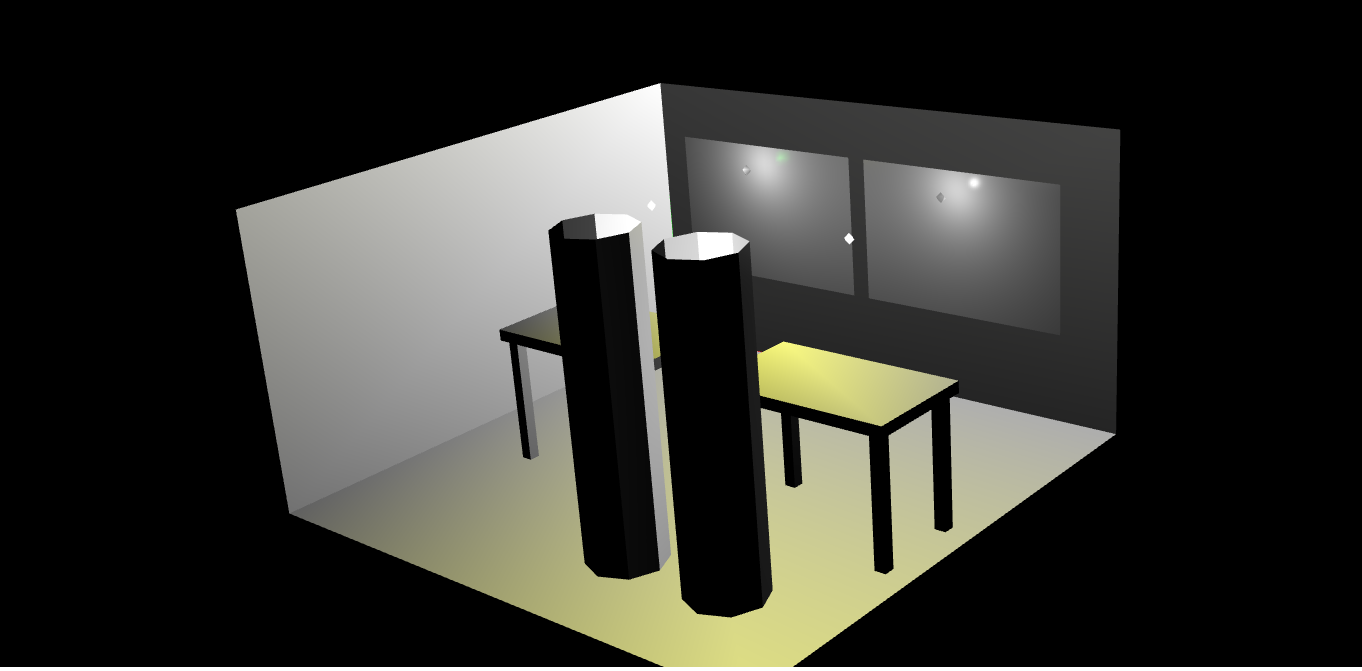
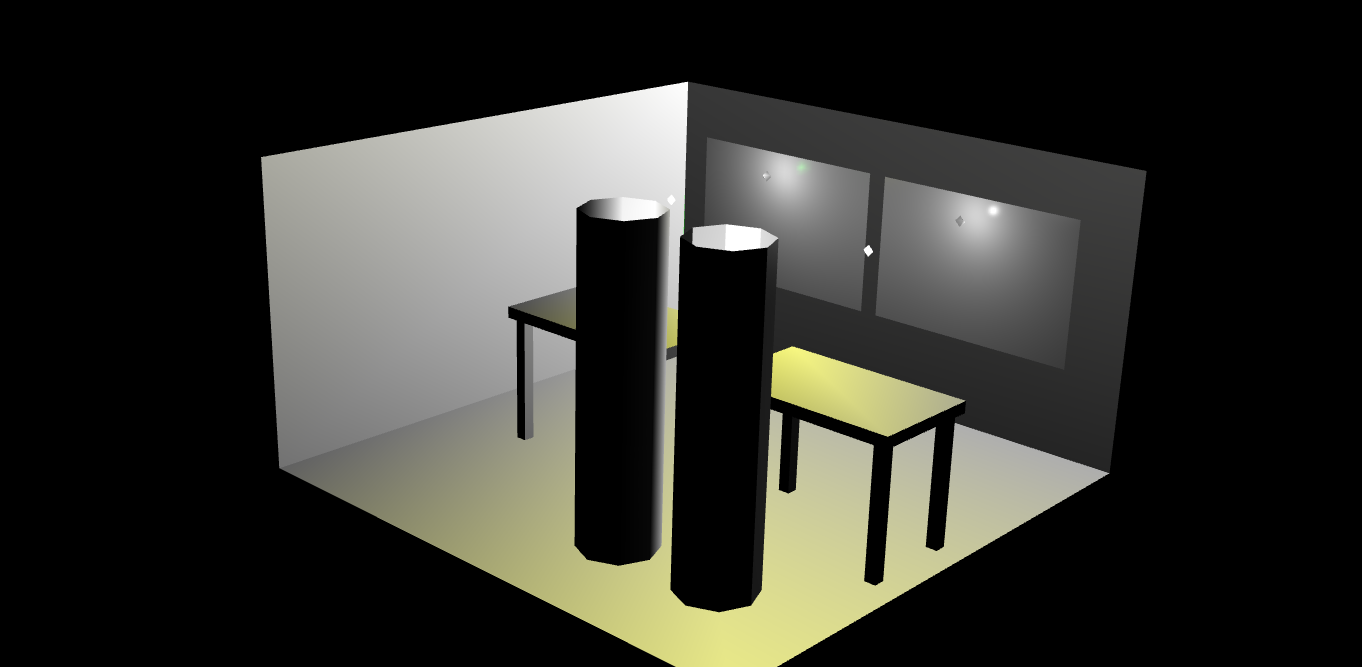
MyCylinder fixed

diff --git a/TP3/CGFCode‐tp2‐T3G12-2.4/tp3/MyCylinder.js b/TP3/CGFCode‐tp2‐T3G12-2.4/tp3/MyCylinder.js
@@ -10,7 +10,7 @@ class MyCylinder extends CGFobject
        this.initBuffers();
      }
 
-	initBuffers() 
+	initBuffers()  
 	{
 		this.vertices = [];
 
@@ -54,8 +54,8 @@ class MyCylinder extends CGFobject
 
 				this.normals.push(Math.cos(angle*i) , Math.sin(angle*i),0);
 				this.normals.push(Math.cos(angle*i) , Math.sin(angle*i),0);
-				this.normals.push(Math.cos(angle*i) , Math.sin(angle*i),0);
-				this.normals.push(Math.cos(angle*i) , Math.sin(angle*i),0);
+				this.normals.push(Math.cos(angle*(i+1)) , Math.sin(angle*(i+1)),0);
+				this.normals.push(Math.cos(angle*(i+1) ), Math.sin(angle*(i+1)),0);
 
 			}
 
